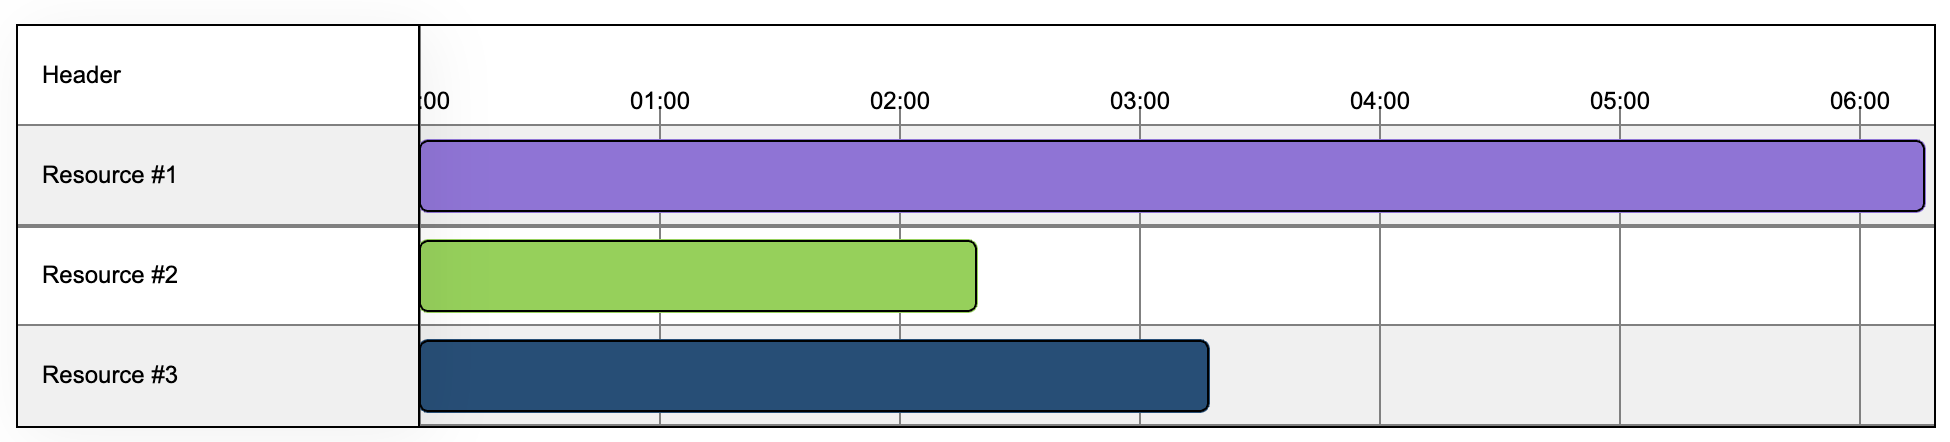
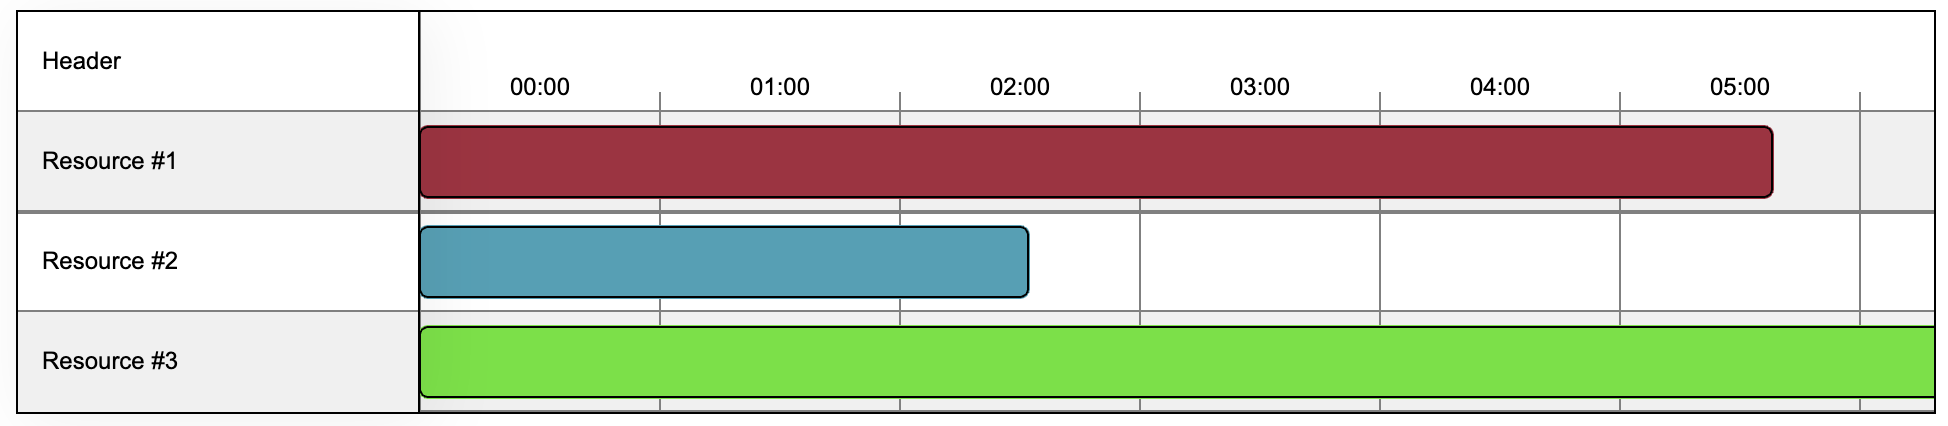
docs: ✏ Updated README.md

diff --git a/README.md b/README.md
@@ -112,17 +112,17 @@ Provide the minimum set of required props.
     }}
     resources={[
       {
-        color: '#74ff93',
+        color: '#f00bda',
         id: '1',
         label: 'Resource #1'
       },
       {
-        color: '#7de7dd',
+        color: '#b66f77',
         id: '2',
         label: 'Resource #2'
       },
       {
-        color: '#a6bbec',
+        color: '#273e3e',
         id: '3',
         label: 'Resource #3'
       }
@@ -165,8 +165,8 @@ Add an array of tasks:
 +       label: 'Task #4',
 +       resourceId: '2',
 +       time: {
-+         end: 1577873580100,
-+         start: 1577853960100
++         end: 1577833740000,
++         start: 1577833200000
 +       }
 +     },
 +     {
@@ -174,16 +174,16 @@ Add an array of tasks:
 +       label: 'Task #2',
 +       resourceId: '1',
 +       time: {
-+         end: 1577835900000,
++         end: 1577848200000,
 +         start: 1577833200000
 +       }
 +     },
 +     {
 +       id: '1',
 +       label: 'Task #1',
-+       resourceId: '2',
++       resourceId: '3',
 +       time: {
-+         end: 1577853300000,
++         end: 1577849520000,
 +         start: 1577833200000
 +       }
 +     },
@@ -192,17 +192,17 @@ Add an array of tasks:
 +       label: 'Task #3',
 +       resourceId: '1',
 +       time: {
-+         end: 1577854980100,
-+         start: 1577837160100
++         end: 1577885040100,
++         start: 1577871660100
 +       }
 +     },
 +     {
 +       id: '5',
 +       label: 'Task #5',
-+       resourceId: '3',
++       resourceId: '2',
 +       time: {
-+         end: 1577843820000,
-+         start: 1577833200000
++         end: 1577865540100,
++         start: 1577842440100
 +       }
 +     }
 +   ]}
